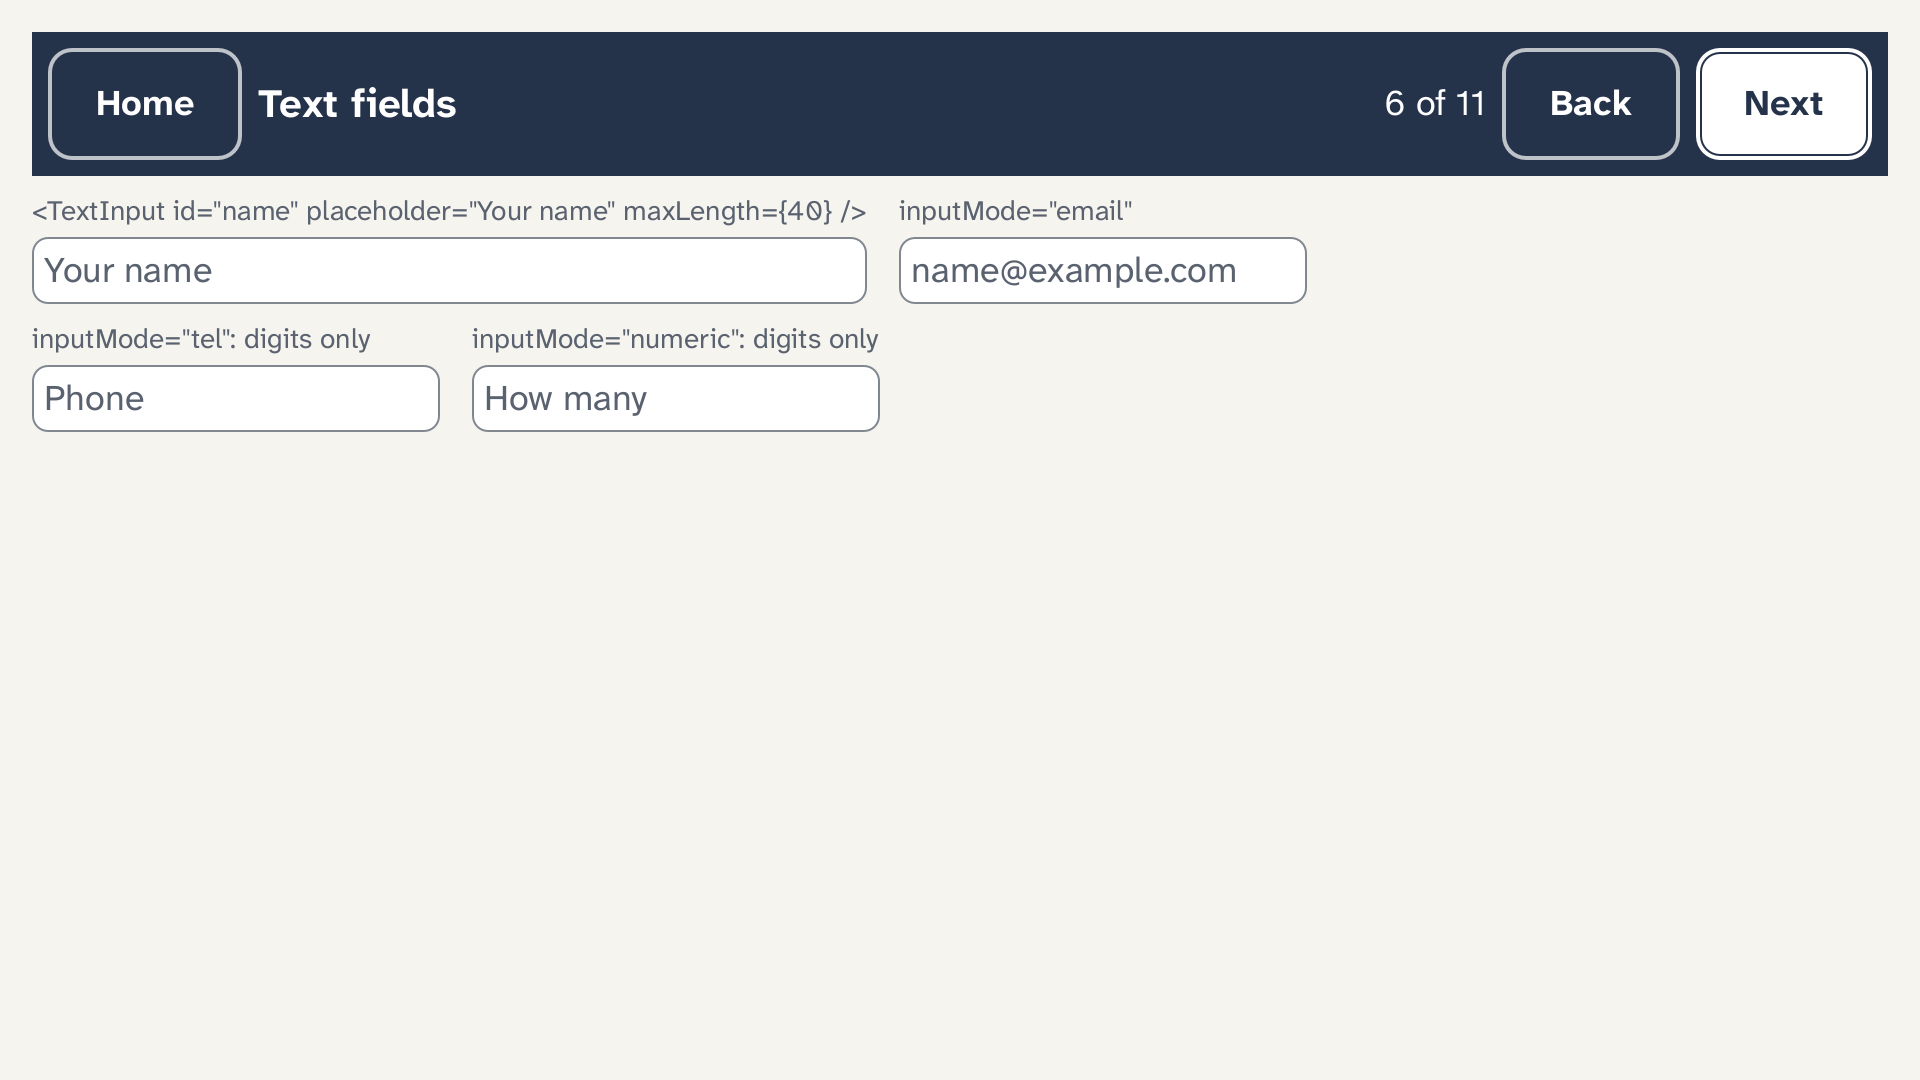
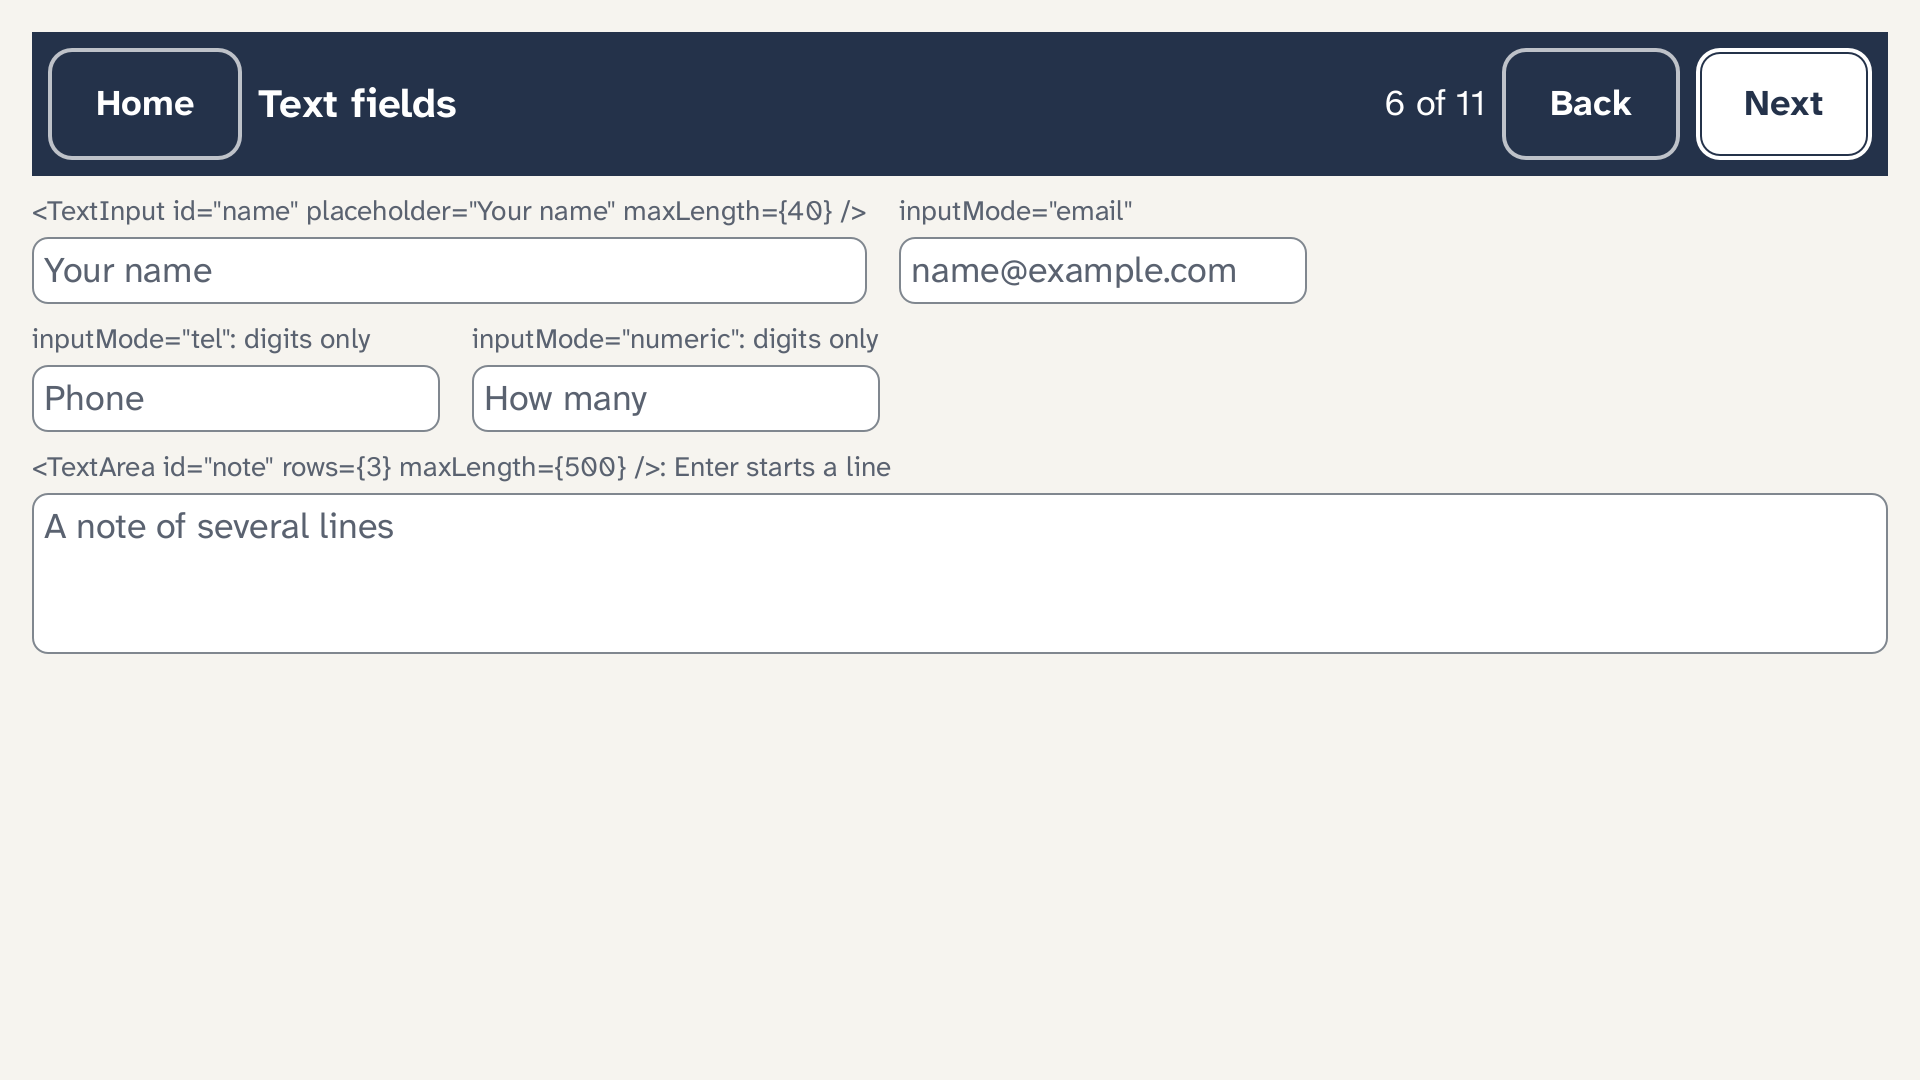
The showcase with text areas
NoWayOS 2ecff25 (editing): the gallery's text fields screen shows a TextArea; the app's builder forwards text_area.

Changed region(s): [[0.0312, 0.4278, 0.4688, 0.5194]]

diff --git a/showcase/showcase-app/tsx/gallery-fields.tsx b/showcase/showcase-app/tsx/gallery-fields.tsx
@@ -1,10 +1,10 @@
 // The Screen Compiler gallery, 6 of 11: a text input in each input mode, with a placeholder and a
-// length limit. The application reads and sets each field by its id;
+// length limit, and a text area of several lines. The application reads and sets each field by its id;
 // what is typed here is wiped as the screen closes.
 // Each example is captioned with the TSX that made it. Written for the showcase in TSX and
 // converted at build time like every other screen here; the launcher's Screen Compiler
 // tile opens the first, and Back and Next go round them all.
-import { Button, Column, HeaderBar, Row, Screen, Spacer, Text, TextInput } from "nowayos:kit";
+import { Button, Column, HeaderBar, Row, Screen, Spacer, Text, TextArea, TextInput } from "nowayos:kit";
 
 const GAP = 8;
 const EDGE = 16;
@@ -58,6 +58,10 @@ export function GalleryFieldsScreen(props: GalleryProps) {
             <TextInput id="count" placeholder="How many" inputMode="numeric" maxLength={3} />
           </Column>
         </Row>
+        <Column gap={4}>
+          <Text role="caption">{'<TextArea id="note" rows={3} maxLength={500} />: Enter starts a line'}</Text>
+          <TextArea id="note" rows={3} maxLength={500} placeholder="A note of several lines" />
+        </Column>
       </Column>
     </Screen>
   );

diff --git a/showcase/showcase-app/src/lib.rs b/showcase/showcase-app/src/lib.rs
@@ -658,6 +658,16 @@ impl UiBuilder for Shifted<'_> {
         let field = FieldId::new(self.shift(field.get()));
         UiBuilder::input(&mut *self.tree, field, input)
     }
+    fn text_area(
+        &mut self,
+        field: FieldId,
+        rows: u8,
+        max_len: u16,
+        placeholder: &'static str,
+    ) -> Result<NodeId, UiError> {
+        let field = FieldId::new(self.shift(field.get()));
+        UiBuilder::text_area(&mut *self.tree, field, rows, max_len, placeholder)
+    }
     fn checkbox(&mut self, field: FieldId, label: &'static str) -> Result<NodeId, UiError> {
         let field = FieldId::new(self.shift(field.get()));
         UiBuilder::checkbox(&mut *self.tree, field, label)
